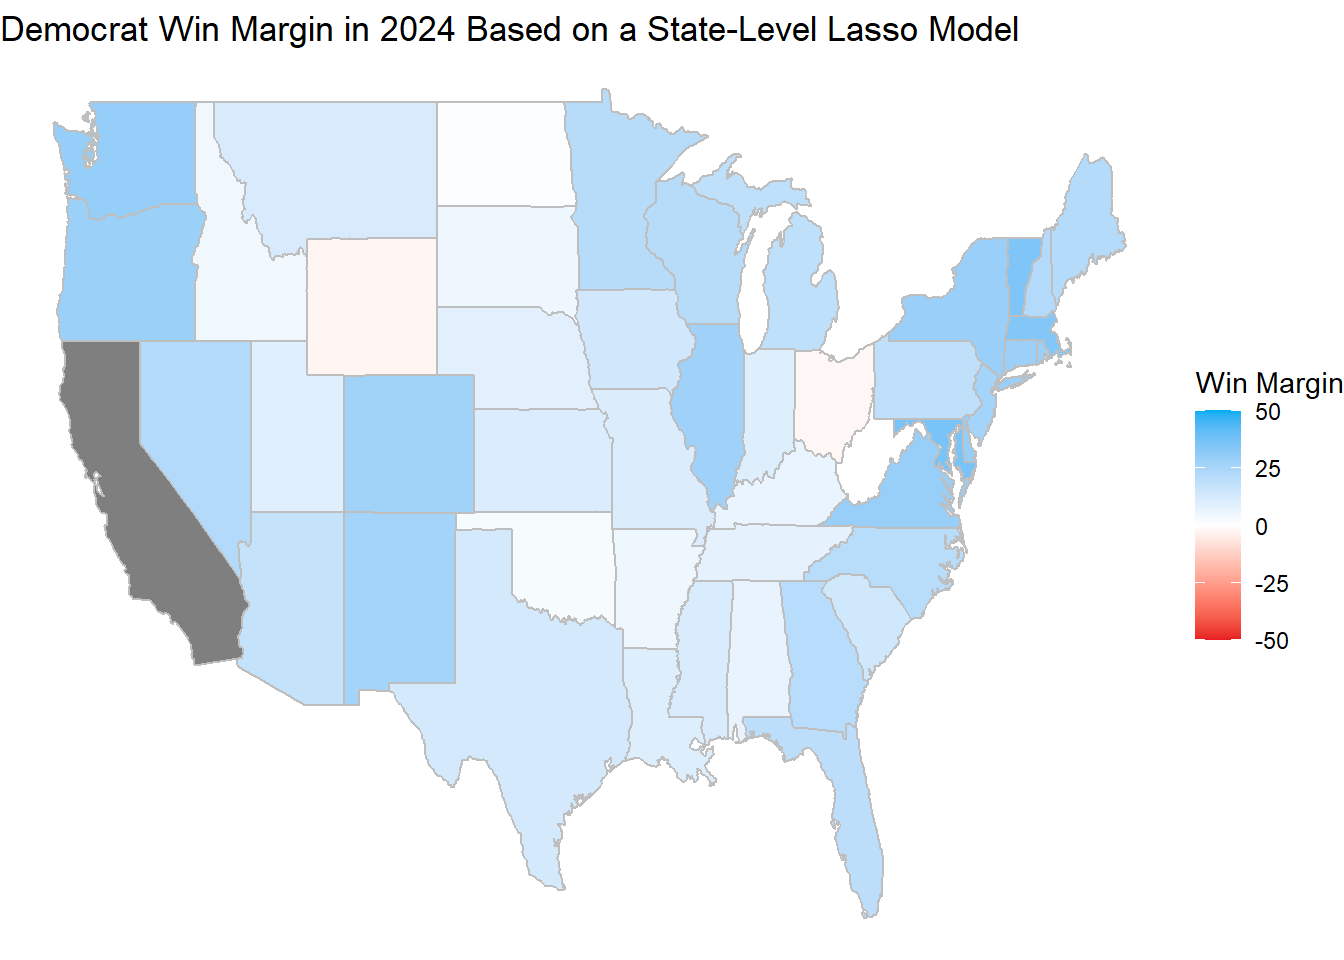
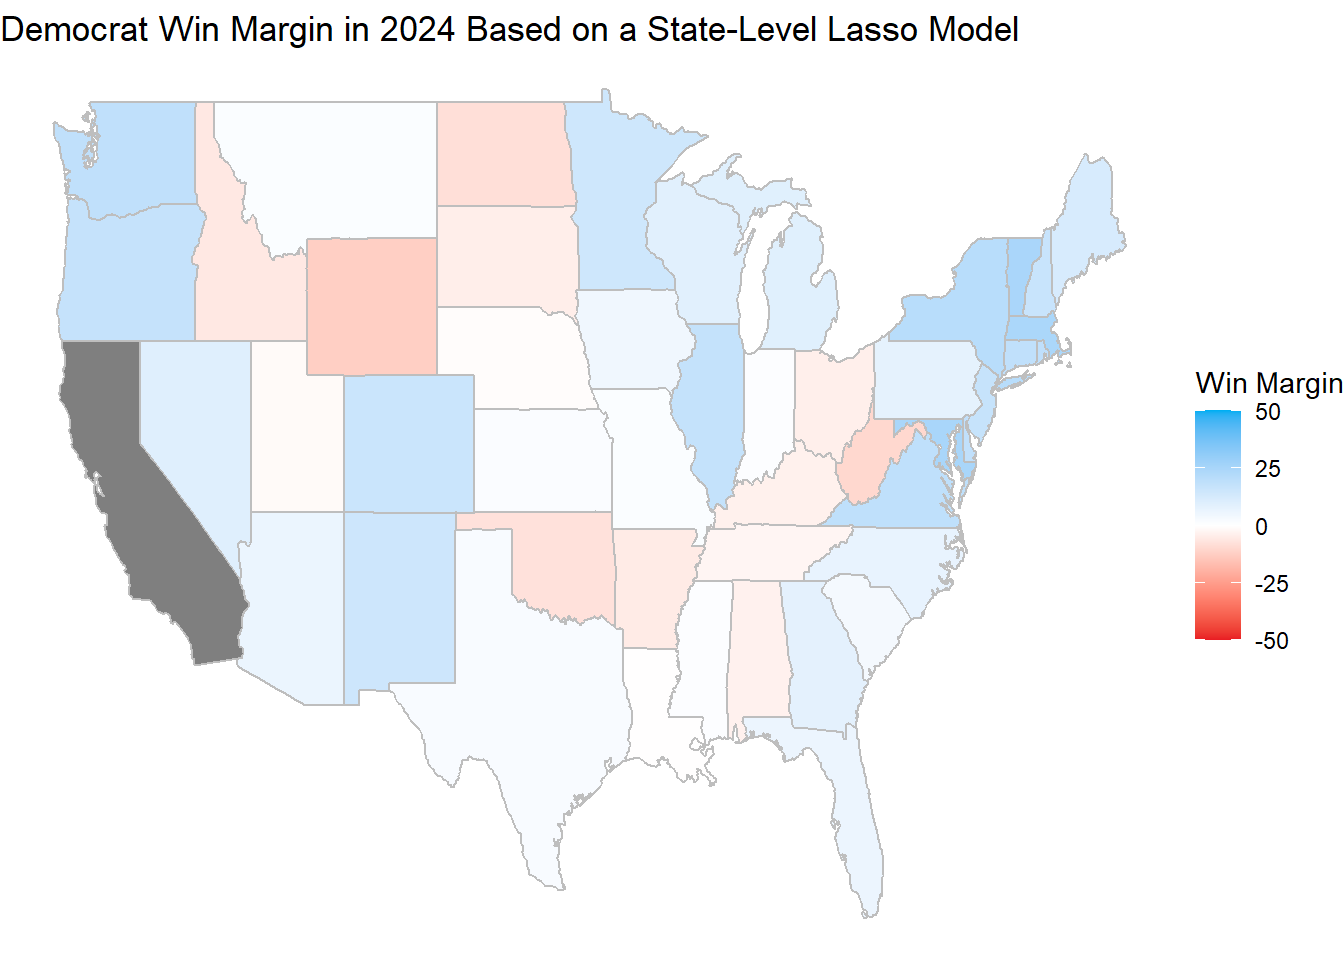
formatting things

diff --git a/public/post/2024/09/30/blog-post-4-incumbency-and-expert-opinions/index.html b/public/post/2024/09/30/blog-post-4-incumbency-and-expert-opinions/index.html
@@ -57,11 +57,11 @@
 </code></pre>
 <pre><code>## 
 ##  iter imp variable
-##   1   1  poll_weeks_left_1  poll_weeks_left_2  poll_weeks_left_3  poll_weeks_left_4  poll_weeks_left_5  poll_weeks_left_6  poll_weeks_left_7  poll_weeks_left_8  poll_weeks_left_9  poll_weeks_left_10  poll_weeks_left_11  poll_weeks_left_12  poll_weeks_left_13  poll_weeks_left_14  poll_weeks_left_15  poll_weeks_left_16  poll_weeks_left_17  poll_weeks_left_18  poll_weeks_left_19  poll_weeks_left_20*  poll_weeks_left_21*  poll_weeks_left_22*  poll_weeks_left_23*  poll_weeks_left_24*  poll_weeks_left_25*  poll_weeks_left_26*  poll_weeks_left_27*  poll_weeks_left_28*  poll_weeks_left_29*  poll_weeks_left_30*  pv  two_party_vote_share  pv_lag1  pv_lag2  two_party_lag1  two_party_lag2  avg_state_unemployment
+##   1   1  poll_weeks_left_1  poll_weeks_left_2  poll_weeks_left_3  poll_weeks_left_4  poll_weeks_left_5  poll_weeks_left_6  poll_weeks_left_7  poll_weeks_left_8  poll_weeks_left_9  poll_weeks_left_10  poll_weeks_left_11  poll_weeks_left_12  poll_weeks_left_13  poll_weeks_left_14  poll_weeks_left_15  poll_weeks_left_16  poll_weeks_left_17  poll_weeks_left_18  poll_weeks_left_19  poll_weeks_left_20  poll_weeks_left_21*  poll_weeks_left_22*  poll_weeks_left_23*  poll_weeks_left_24*  poll_weeks_left_25*  poll_weeks_left_26  poll_weeks_left_27*  poll_weeks_left_28*  poll_weeks_left_29*  poll_weeks_left_30*  pv  two_party_vote_share  pv_lag1  pv_lag2  two_party_lag1  two_party_lag2  avg_state_unemployment
 ##   1   2  poll_weeks_left_1  poll_weeks_left_2  poll_weeks_left_3  poll_weeks_left_4  poll_weeks_left_5  poll_weeks_left_6  poll_weeks_left_7  poll_weeks_left_8  poll_weeks_left_9  poll_weeks_left_10  poll_weeks_left_11  poll_weeks_left_12  poll_weeks_left_13  poll_weeks_left_14  poll_weeks_left_15  poll_weeks_left_16  poll_weeks_left_17  poll_weeks_left_18  poll_weeks_left_19  poll_weeks_left_20*  poll_weeks_left_21*  poll_weeks_left_22*  poll_weeks_left_23*  poll_weeks_left_24*  poll_weeks_left_25*  poll_weeks_left_26*  poll_weeks_left_27*  poll_weeks_left_28*  poll_weeks_left_29*  poll_weeks_left_30*  pv  two_party_vote_share  pv_lag1  pv_lag2  two_party_lag1  two_party_lag2  avg_state_unemployment
-##   1   3  poll_weeks_left_1  poll_weeks_left_2  poll_weeks_left_3  poll_weeks_left_4  poll_weeks_left_5  poll_weeks_left_6  poll_weeks_left_7  poll_weeks_left_8  poll_weeks_left_9  poll_weeks_left_10  poll_weeks_left_11  poll_weeks_left_12  poll_weeks_left_13  poll_weeks_left_14  poll_weeks_left_15  poll_weeks_left_16  poll_weeks_left_17  poll_weeks_left_18  poll_weeks_left_19  poll_weeks_left_20*  poll_weeks_left_21  poll_weeks_left_22*  poll_weeks_left_23*  poll_weeks_left_24*  poll_weeks_left_25*  poll_weeks_left_26*  poll_weeks_left_27*  poll_weeks_left_28*  poll_weeks_left_29*  poll_weeks_left_30*  pv  two_party_vote_share  pv_lag1  pv_lag2  two_party_lag1  two_party_lag2  avg_state_unemployment
+##   1   3  poll_weeks_left_1  poll_weeks_left_2  poll_weeks_left_3  poll_weeks_left_4  poll_weeks_left_5  poll_weeks_left_6  poll_weeks_left_7  poll_weeks_left_8  poll_weeks_left_9  poll_weeks_left_10  poll_weeks_left_11  poll_weeks_left_12  poll_weeks_left_13  poll_weeks_left_14  poll_weeks_left_15  poll_weeks_left_16  poll_weeks_left_17  poll_weeks_left_18  poll_weeks_left_19  poll_weeks_left_20*  poll_weeks_left_21*  poll_weeks_left_22*  poll_weeks_left_23*  poll_weeks_left_24*  poll_weeks_left_25*  poll_weeks_left_26*  poll_weeks_left_27*  poll_weeks_left_28*  poll_weeks_left_29*  poll_weeks_left_30  pv  two_party_vote_share  pv_lag1  pv_lag2  two_party_lag1  two_party_lag2  avg_state_unemployment
 ##   1   4  poll_weeks_left_1  poll_weeks_left_2  poll_weeks_left_3  poll_weeks_left_4  poll_weeks_left_5  poll_weeks_left_6  poll_weeks_left_7  poll_weeks_left_8  poll_weeks_left_9  poll_weeks_left_10  poll_weeks_left_11  poll_weeks_left_12  poll_weeks_left_13  poll_weeks_left_14  poll_weeks_left_15  poll_weeks_left_16  poll_weeks_left_17  poll_weeks_left_18  poll_weeks_left_19  poll_weeks_left_20*  poll_weeks_left_21*  poll_weeks_left_22*  poll_weeks_left_23*  poll_weeks_left_24*  poll_weeks_left_25*  poll_weeks_left_26*  poll_weeks_left_27*  poll_weeks_left_28*  poll_weeks_left_29*  poll_weeks_left_30*  pv  two_party_vote_share  pv_lag1  pv_lag2  two_party_lag1  two_party_lag2  avg_state_unemployment
-##   1   5  poll_weeks_left_1  poll_weeks_left_2  poll_weeks_left_3  poll_weeks_left_4  poll_weeks_left_5  poll_weeks_left_6  poll_weeks_left_7  poll_weeks_left_8  poll_weeks_left_9  poll_weeks_left_10  poll_weeks_left_11  poll_weeks_left_12  poll_weeks_left_13  poll_weeks_left_14  poll_weeks_left_15  poll_weeks_left_16  poll_weeks_left_17  poll_weeks_left_18  poll_weeks_left_19  poll_weeks_left_20*  poll_weeks_left_21*  poll_weeks_left_22*  poll_weeks_left_23*  poll_weeks_left_24*  poll_weeks_left_25*  poll_weeks_left_26*  poll_weeks_left_27*  poll_weeks_left_28*  poll_weeks_left_29*  poll_weeks_left_30*  pv  two_party_vote_share  pv_lag1  pv_lag2  two_party_lag1  two_party_lag2  avg_state_unemployment
+##   1   5  poll_weeks_left_1  poll_weeks_left_2  poll_weeks_left_3  poll_weeks_left_4  poll_weeks_left_5  poll_weeks_left_6  poll_weeks_left_7  poll_weeks_left_8  poll_weeks_left_9  poll_weeks_left_10  poll_weeks_left_11  poll_weeks_left_12  poll_weeks_left_13  poll_weeks_left_14  poll_weeks_left_15  poll_weeks_left_16  poll_weeks_left_17  poll_weeks_left_18  poll_weeks_left_19  poll_weeks_left_20  poll_weeks_left_21*  poll_weeks_left_22*  poll_weeks_left_23*  poll_weeks_left_24*  poll_weeks_left_25*  poll_weeks_left_26*  poll_weeks_left_27*  poll_weeks_left_28*  poll_weeks_left_29*  poll_weeks_left_30*  pv  two_party_vote_share  pv_lag1  pv_lag2  two_party_lag1  two_party_lag2  avg_state_unemployment
 ##   2   1  poll_weeks_left_1  poll_weeks_left_2  poll_weeks_left_3  poll_weeks_left_4  poll_weeks_left_5  poll_weeks_left_6  poll_weeks_left_7  poll_weeks_left_8  poll_weeks_left_9  poll_weeks_left_10  poll_weeks_left_11  poll_weeks_left_12  poll_weeks_left_13  poll_weeks_left_14  poll_weeks_left_15  poll_weeks_left_16  poll_weeks_left_17  poll_weeks_left_18  poll_weeks_left_19  poll_weeks_left_20  poll_weeks_left_21  poll_weeks_left_22  poll_weeks_left_23  poll_weeks_left_24  poll_weeks_left_25  poll_weeks_left_26  poll_weeks_left_27  poll_weeks_left_28  poll_weeks_left_29  poll_weeks_left_30  pv  two_party_vote_share  pv_lag1  pv_lag2  two_party_lag1  two_party_lag2  avg_state_unemployment
 ##   2   2  poll_weeks_left_1  poll_weeks_left_2  poll_weeks_left_3  poll_weeks_left_4  poll_weeks_left_5  poll_weeks_left_6  poll_weeks_left_7  poll_weeks_left_8  poll_weeks_left_9  poll_weeks_left_10  poll_weeks_left_11  poll_weeks_left_12  poll_weeks_left_13  poll_weeks_left_14  poll_weeks_left_15  poll_weeks_left_16  poll_weeks_left_17  poll_weeks_left_18  poll_weeks_left_19  poll_weeks_left_20  poll_weeks_left_21  poll_weeks_left_22  poll_weeks_left_23  poll_weeks_left_24  poll_weeks_left_25  poll_weeks_left_26  poll_weeks_left_27  poll_weeks_left_28  poll_weeks_left_29  poll_weeks_left_30  pv  two_party_vote_share  pv_lag1  pv_lag2  two_party_lag1  two_party_lag2  avg_state_unemployment
 ##   2   3  poll_weeks_left_1  poll_weeks_left_2  poll_weeks_left_3  poll_weeks_left_4  poll_weeks_left_5  poll_weeks_left_6  poll_weeks_left_7  poll_weeks_left_8  poll_weeks_left_9  poll_weeks_left_10  poll_weeks_left_11  poll_weeks_left_12  poll_weeks_left_13  poll_weeks_left_14  poll_weeks_left_15  poll_weeks_left_16  poll_weeks_left_17  poll_weeks_left_18  poll_weeks_left_19  poll_weeks_left_20  poll_weeks_left_21  poll_weeks_left_22  poll_weeks_left_23  poll_weeks_left_24  poll_weeks_left_25  poll_weeks_left_26  poll_weeks_left_27  poll_weeks_left_28  poll_weeks_left_29  poll_weeks_left_30  pv  two_party_vote_share  pv_lag1  pv_lag2  two_party_lag1  two_party_lag2  avg_state_unemployment
@@ -82,21 +82,6 @@
 ##   5   3  poll_weeks_left_1  poll_weeks_left_2  poll_weeks_left_3  poll_weeks_left_4  poll_weeks_left_5  poll_weeks_left_6  poll_weeks_left_7  poll_weeks_left_8  poll_weeks_left_9  poll_weeks_left_10  poll_weeks_left_11  poll_weeks_left_12  poll_weeks_left_13  poll_weeks_left_14  poll_weeks_left_15  poll_weeks_left_16  poll_weeks_left_17  poll_weeks_left_18  poll_weeks_left_19  poll_weeks_left_20  poll_weeks_left_21  poll_weeks_left_22  poll_weeks_left_23  poll_weeks_left_24  poll_weeks_left_25  poll_weeks_left_26  poll_weeks_left_27  poll_weeks_left_28  poll_weeks_left_29  poll_weeks_left_30  pv  two_party_vote_share  pv_lag1  pv_lag2  two_party_lag1  two_party_lag2  avg_state_unemployment
 ##   5   4  poll_weeks_left_1  poll_weeks_left_2  poll_weeks_left_3  poll_weeks_left_4  poll_weeks_left_5  poll_weeks_left_6  poll_weeks_left_7  poll_weeks_left_8  poll_weeks_left_9  poll_weeks_left_10  poll_weeks_left_11  poll_weeks_left_12  poll_weeks_left_13  poll_weeks_left_14  poll_weeks_left_15  poll_weeks_left_16  poll_weeks_left_17  poll_weeks_left_18  poll_weeks_left_19  poll_weeks_left_20  poll_weeks_left_21  poll_weeks_left_22  poll_weeks_left_23  poll_weeks_left_24  poll_weeks_left_25  poll_weeks_left_26  poll_weeks_left_27  poll_weeks_left_28  poll_weeks_left_29  poll_weeks_left_30  pv  two_party_vote_share  pv_lag1  pv_lag2  two_party_lag1  two_party_lag2  avg_state_unemployment
 ##   5   5  poll_weeks_left_1  poll_weeks_left_2  poll_weeks_left_3  poll_weeks_left_4  poll_weeks_left_5  poll_weeks_left_6  poll_weeks_left_7  poll_weeks_left_8  poll_weeks_left_9  poll_weeks_left_10  poll_weeks_left_11  poll_weeks_left_12  poll_weeks_left_13  poll_weeks_left_14  poll_weeks_left_15  poll_weeks_left_16  poll_weeks_left_17  poll_weeks_left_18  poll_weeks_left_19  poll_weeks_left_20  poll_weeks_left_21  poll_weeks_left_22  poll_weeks_left_23  poll_weeks_left_24  poll_weeks_left_25  poll_weeks_left_26  poll_weeks_left_27  poll_weeks_left_28  poll_weeks_left_29  poll_weeks_left_30  pv  two_party_vote_share  pv_lag1  pv_lag2  two_party_lag1  two_party_lag2  avg_state_unemployment
-</code></pre>
-<pre><code>## Warning: Number of logged events: 982
-</code></pre>
-<pre><code>## Warning: There was 1 warning in `summarize()`.
-## ℹ In argument: `across(where(is.numeric), mean, na.rm = TRUE)`.
-## ℹ In group 1: `region = &quot;Midwest&quot;`.
-## Caused by warning:
-## ! The `...` argument of `across()` is deprecated as of dplyr 1.1.0.
-## Supply arguments directly to `.fns` through an anonymous function instead.
-## 
-##   # Previously
-##   across(a:b, mean, na.rm = TRUE)
-## 
-##   # Now
-##   across(a:b, \(x) mean(x, na.rm = TRUE))
 </code></pre>
 <p>In my model, I took a shot at imputations for missing values and, as can be seen in the map below, I likely made some poor decisions. Namely, for missing state polling values in the year 2024, I imputed the average polling score for that week in the state&rsquo;s geographical region (Northeast, Midwest, South, and West). There is definitely more variety to a state&rsquo;s polling averages than just what is common in their region. Geographical regions alone were not a sound imputation technique, and I think it skewed my model in the direction of Kamala Harris. We can see that my model predicts some states that are typically solid red as approximately toss-ups in 2024. In the future, I hope to be able to perform something similar, but maybe by blocking states together based on voting history, as opposed to geographic proximity. Alternatively, I could weight recent voting patterns heavier in my model.</p>
 <img src="https://example.org/post/2024/09/30/blog-post-4-incumbency-and-expert-opinions/index_files/figure-html/unnamed-chunk-2-1.png" width="672" />

diff --git a/content/post/2024-09-30-blog-post-4-incumbency-and-expert-opinions/index.md b/content/post/2024-09-30-blog-post-4-incumbency-and-expert-opinions/index.md
@@ -56,11 +56,11 @@ In my model, I'm not going to incorporate expert opinions, but I will try to fac
 ```
 ## 
 ##  iter imp variable
-##   1   1  poll_weeks_left_1  poll_weeks_left_2  poll_weeks_left_3  poll_weeks_left_4  poll_weeks_left_5  poll_weeks_left_6  poll_weeks_left_7  poll_weeks_left_8  poll_weeks_left_9  poll_weeks_left_10  poll_weeks_left_11  poll_weeks_left_12  poll_weeks_left_13  poll_weeks_left_14  poll_weeks_left_15  poll_weeks_left_16  poll_weeks_left_17  poll_weeks_left_18  poll_weeks_left_19  poll_weeks_left_20*  poll_weeks_left_21*  poll_weeks_left_22*  poll_weeks_left_23*  poll_weeks_left_24*  poll_weeks_left_25*  poll_weeks_left_26*  poll_weeks_left_27*  poll_weeks_left_28*  poll_weeks_left_29*  poll_weeks_left_30*  pv  two_party_vote_share  pv_lag1  pv_lag2  two_party_lag1  two_party_lag2  avg_state_unemployment
+##   1   1  poll_weeks_left_1  poll_weeks_left_2  poll_weeks_left_3  poll_weeks_left_4  poll_weeks_left_5  poll_weeks_left_6  poll_weeks_left_7  poll_weeks_left_8  poll_weeks_left_9  poll_weeks_left_10  poll_weeks_left_11  poll_weeks_left_12  poll_weeks_left_13  poll_weeks_left_14  poll_weeks_left_15  poll_weeks_left_16  poll_weeks_left_17  poll_weeks_left_18  poll_weeks_left_19  poll_weeks_left_20  poll_weeks_left_21*  poll_weeks_left_22*  poll_weeks_left_23*  poll_weeks_left_24*  poll_weeks_left_25*  poll_weeks_left_26  poll_weeks_left_27*  poll_weeks_left_28*  poll_weeks_left_29*  poll_weeks_left_30*  pv  two_party_vote_share  pv_lag1  pv_lag2  two_party_lag1  two_party_lag2  avg_state_unemployment
 ##   1   2  poll_weeks_left_1  poll_weeks_left_2  poll_weeks_left_3  poll_weeks_left_4  poll_weeks_left_5  poll_weeks_left_6  poll_weeks_left_7  poll_weeks_left_8  poll_weeks_left_9  poll_weeks_left_10  poll_weeks_left_11  poll_weeks_left_12  poll_weeks_left_13  poll_weeks_left_14  poll_weeks_left_15  poll_weeks_left_16  poll_weeks_left_17  poll_weeks_left_18  poll_weeks_left_19  poll_weeks_left_20*  poll_weeks_left_21*  poll_weeks_left_22*  poll_weeks_left_23*  poll_weeks_left_24*  poll_weeks_left_25*  poll_weeks_left_26*  poll_weeks_left_27*  poll_weeks_left_28*  poll_weeks_left_29*  poll_weeks_left_30*  pv  two_party_vote_share  pv_lag1  pv_lag2  two_party_lag1  two_party_lag2  avg_state_unemployment
-##   1   3  poll_weeks_left_1  poll_weeks_left_2  poll_weeks_left_3  poll_weeks_left_4  poll_weeks_left_5  poll_weeks_left_6  poll_weeks_left_7  poll_weeks_left_8  poll_weeks_left_9  poll_weeks_left_10  poll_weeks_left_11  poll_weeks_left_12  poll_weeks_left_13  poll_weeks_left_14  poll_weeks_left_15  poll_weeks_left_16  poll_weeks_left_17  poll_weeks_left_18  poll_weeks_left_19  poll_weeks_left_20*  poll_weeks_left_21  poll_weeks_left_22*  poll_weeks_left_23*  poll_weeks_left_24*  poll_weeks_left_25*  poll_weeks_left_26*  poll_weeks_left_27*  poll_weeks_left_28*  poll_weeks_left_29*  poll_weeks_left_30*  pv  two_party_vote_share  pv_lag1  pv_lag2  two_party_lag1  two_party_lag2  avg_state_unemployment
+##   1   3  poll_weeks_left_1  poll_weeks_left_2  poll_weeks_left_3  poll_weeks_left_4  poll_weeks_left_5  poll_weeks_left_6  poll_weeks_left_7  poll_weeks_left_8  poll_weeks_left_9  poll_weeks_left_10  poll_weeks_left_11  poll_weeks_left_12  poll_weeks_left_13  poll_weeks_left_14  poll_weeks_left_15  poll_weeks_left_16  poll_weeks_left_17  poll_weeks_left_18  poll_weeks_left_19  poll_weeks_left_20*  poll_weeks_left_21*  poll_weeks_left_22*  poll_weeks_left_23*  poll_weeks_left_24*  poll_weeks_left_25*  poll_weeks_left_26*  poll_weeks_left_27*  poll_weeks_left_28*  poll_weeks_left_29*  poll_weeks_left_30  pv  two_party_vote_share  pv_lag1  pv_lag2  two_party_lag1  two_party_lag2  avg_state_unemployment
 ##   1   4  poll_weeks_left_1  poll_weeks_left_2  poll_weeks_left_3  poll_weeks_left_4  poll_weeks_left_5  poll_weeks_left_6  poll_weeks_left_7  poll_weeks_left_8  poll_weeks_left_9  poll_weeks_left_10  poll_weeks_left_11  poll_weeks_left_12  poll_weeks_left_13  poll_weeks_left_14  poll_weeks_left_15  poll_weeks_left_16  poll_weeks_left_17  poll_weeks_left_18  poll_weeks_left_19  poll_weeks_left_20*  poll_weeks_left_21*  poll_weeks_left_22*  poll_weeks_left_23*  poll_weeks_left_24*  poll_weeks_left_25*  poll_weeks_left_26*  poll_weeks_left_27*  poll_weeks_left_28*  poll_weeks_left_29*  poll_weeks_left_30*  pv  two_party_vote_share  pv_lag1  pv_lag2  two_party_lag1  two_party_lag2  avg_state_unemployment
-##   1   5  poll_weeks_left_1  poll_weeks_left_2  poll_weeks_left_3  poll_weeks_left_4  poll_weeks_left_5  poll_weeks_left_6  poll_weeks_left_7  poll_weeks_left_8  poll_weeks_left_9  poll_weeks_left_10  poll_weeks_left_11  poll_weeks_left_12  poll_weeks_left_13  poll_weeks_left_14  poll_weeks_left_15  poll_weeks_left_16  poll_weeks_left_17  poll_weeks_left_18  poll_weeks_left_19  poll_weeks_left_20*  poll_weeks_left_21*  poll_weeks_left_22*  poll_weeks_left_23*  poll_weeks_left_24*  poll_weeks_left_25*  poll_weeks_left_26*  poll_weeks_left_27*  poll_weeks_left_28*  poll_weeks_left_29*  poll_weeks_left_30*  pv  two_party_vote_share  pv_lag1  pv_lag2  two_party_lag1  two_party_lag2  avg_state_unemployment
+##   1   5  poll_weeks_left_1  poll_weeks_left_2  poll_weeks_left_3  poll_weeks_left_4  poll_weeks_left_5  poll_weeks_left_6  poll_weeks_left_7  poll_weeks_left_8  poll_weeks_left_9  poll_weeks_left_10  poll_weeks_left_11  poll_weeks_left_12  poll_weeks_left_13  poll_weeks_left_14  poll_weeks_left_15  poll_weeks_left_16  poll_weeks_left_17  poll_weeks_left_18  poll_weeks_left_19  poll_weeks_left_20  poll_weeks_left_21*  poll_weeks_left_22*  poll_weeks_left_23*  poll_weeks_left_24*  poll_weeks_left_25*  poll_weeks_left_26*  poll_weeks_left_27*  poll_weeks_left_28*  poll_weeks_left_29*  poll_weeks_left_30*  pv  two_party_vote_share  pv_lag1  pv_lag2  two_party_lag1  two_party_lag2  avg_state_unemployment
 ##   2   1  poll_weeks_left_1  poll_weeks_left_2  poll_weeks_left_3  poll_weeks_left_4  poll_weeks_left_5  poll_weeks_left_6  poll_weeks_left_7  poll_weeks_left_8  poll_weeks_left_9  poll_weeks_left_10  poll_weeks_left_11  poll_weeks_left_12  poll_weeks_left_13  poll_weeks_left_14  poll_weeks_left_15  poll_weeks_left_16  poll_weeks_left_17  poll_weeks_left_18  poll_weeks_left_19  poll_weeks_left_20  poll_weeks_left_21  poll_weeks_left_22  poll_weeks_left_23  poll_weeks_left_24  poll_weeks_left_25  poll_weeks_left_26  poll_weeks_left_27  poll_weeks_left_28  poll_weeks_left_29  poll_weeks_left_30  pv  two_party_vote_share  pv_lag1  pv_lag2  two_party_lag1  two_party_lag2  avg_state_unemployment
 ##   2   2  poll_weeks_left_1  poll_weeks_left_2  poll_weeks_left_3  poll_weeks_left_4  poll_weeks_left_5  poll_weeks_left_6  poll_weeks_left_7  poll_weeks_left_8  poll_weeks_left_9  poll_weeks_left_10  poll_weeks_left_11  poll_weeks_left_12  poll_weeks_left_13  poll_weeks_left_14  poll_weeks_left_15  poll_weeks_left_16  poll_weeks_left_17  poll_weeks_left_18  poll_weeks_left_19  poll_weeks_left_20  poll_weeks_left_21  poll_weeks_left_22  poll_weeks_left_23  poll_weeks_left_24  poll_weeks_left_25  poll_weeks_left_26  poll_weeks_left_27  poll_weeks_left_28  poll_weeks_left_29  poll_weeks_left_30  pv  two_party_vote_share  pv_lag1  pv_lag2  two_party_lag1  two_party_lag2  avg_state_unemployment
 ##   2   3  poll_weeks_left_1  poll_weeks_left_2  poll_weeks_left_3  poll_weeks_left_4  poll_weeks_left_5  poll_weeks_left_6  poll_weeks_left_7  poll_weeks_left_8  poll_weeks_left_9  poll_weeks_left_10  poll_weeks_left_11  poll_weeks_left_12  poll_weeks_left_13  poll_weeks_left_14  poll_weeks_left_15  poll_weeks_left_16  poll_weeks_left_17  poll_weeks_left_18  poll_weeks_left_19  poll_weeks_left_20  poll_weeks_left_21  poll_weeks_left_22  poll_weeks_left_23  poll_weeks_left_24  poll_weeks_left_25  poll_weeks_left_26  poll_weeks_left_27  poll_weeks_left_28  poll_weeks_left_29  poll_weeks_left_30  pv  two_party_vote_share  pv_lag1  pv_lag2  two_party_lag1  two_party_lag2  avg_state_unemployment
@@ -81,25 +81,6 @@ In my model, I'm not going to incorporate expert opinions, but I will try to fac
 ##   5   3  poll_weeks_left_1  poll_weeks_left_2  poll_weeks_left_3  poll_weeks_left_4  poll_weeks_left_5  poll_weeks_left_6  poll_weeks_left_7  poll_weeks_left_8  poll_weeks_left_9  poll_weeks_left_10  poll_weeks_left_11  poll_weeks_left_12  poll_weeks_left_13  poll_weeks_left_14  poll_weeks_left_15  poll_weeks_left_16  poll_weeks_left_17  poll_weeks_left_18  poll_weeks_left_19  poll_weeks_left_20  poll_weeks_left_21  poll_weeks_left_22  poll_weeks_left_23  poll_weeks_left_24  poll_weeks_left_25  poll_weeks_left_26  poll_weeks_left_27  poll_weeks_left_28  poll_weeks_left_29  poll_weeks_left_30  pv  two_party_vote_share  pv_lag1  pv_lag2  two_party_lag1  two_party_lag2  avg_state_unemployment
 ##   5   4  poll_weeks_left_1  poll_weeks_left_2  poll_weeks_left_3  poll_weeks_left_4  poll_weeks_left_5  poll_weeks_left_6  poll_weeks_left_7  poll_weeks_left_8  poll_weeks_left_9  poll_weeks_left_10  poll_weeks_left_11  poll_weeks_left_12  poll_weeks_left_13  poll_weeks_left_14  poll_weeks_left_15  poll_weeks_left_16  poll_weeks_left_17  poll_weeks_left_18  poll_weeks_left_19  poll_weeks_left_20  poll_weeks_left_21  poll_weeks_left_22  poll_weeks_left_23  poll_weeks_left_24  poll_weeks_left_25  poll_weeks_left_26  poll_weeks_left_27  poll_weeks_left_28  poll_weeks_left_29  poll_weeks_left_30  pv  two_party_vote_share  pv_lag1  pv_lag2  two_party_lag1  two_party_lag2  avg_state_unemployment
 ##   5   5  poll_weeks_left_1  poll_weeks_left_2  poll_weeks_left_3  poll_weeks_left_4  poll_weeks_left_5  poll_weeks_left_6  poll_weeks_left_7  poll_weeks_left_8  poll_weeks_left_9  poll_weeks_left_10  poll_weeks_left_11  poll_weeks_left_12  poll_weeks_left_13  poll_weeks_left_14  poll_weeks_left_15  poll_weeks_left_16  poll_weeks_left_17  poll_weeks_left_18  poll_weeks_left_19  poll_weeks_left_20  poll_weeks_left_21  poll_weeks_left_22  poll_weeks_left_23  poll_weeks_left_24  poll_weeks_left_25  poll_weeks_left_26  poll_weeks_left_27  poll_weeks_left_28  poll_weeks_left_29  poll_weeks_left_30  pv  two_party_vote_share  pv_lag1  pv_lag2  two_party_lag1  two_party_lag2  avg_state_unemployment
-```
-
-```
-## Warning: Number of logged events: 982
-```
-
-```
-## Warning: There was 1 warning in `summarize()`.
-## ℹ In argument: `across(where(is.numeric), mean, na.rm = TRUE)`.
-## ℹ In group 1: `region = "Midwest"`.
-## Caused by warning:
-## ! The `...` argument of `across()` is deprecated as of dplyr 1.1.0.
-## Supply arguments directly to `.fns` through an anonymous function instead.
-## 
-##   # Previously
-##   across(a:b, mean, na.rm = TRUE)
-## 
-##   # Now
-##   across(a:b, \(x) mean(x, na.rm = TRUE))
 ```
 
 
